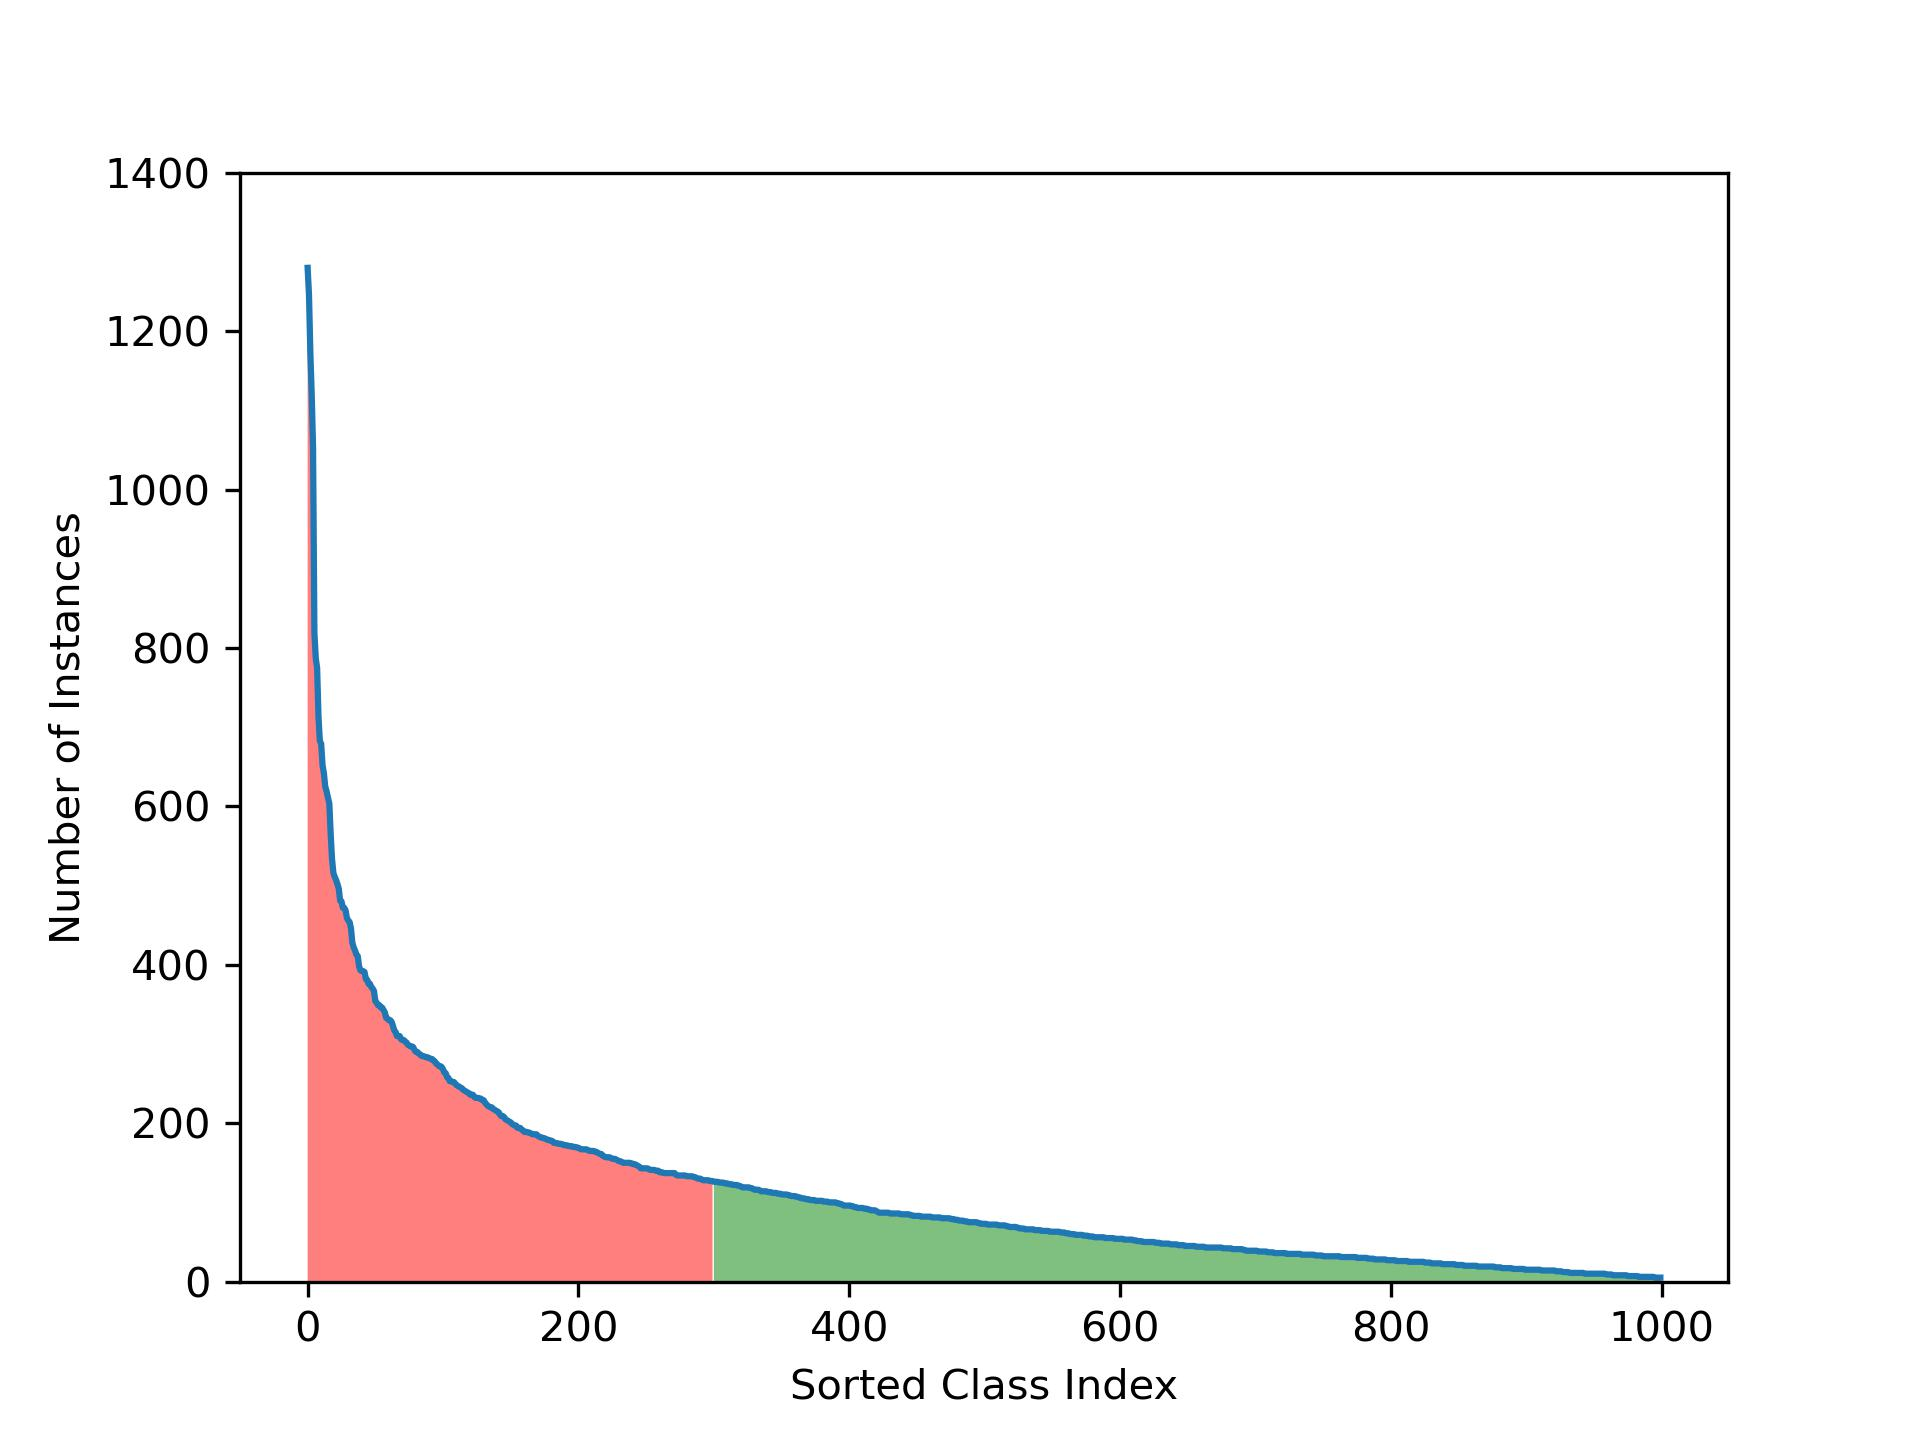
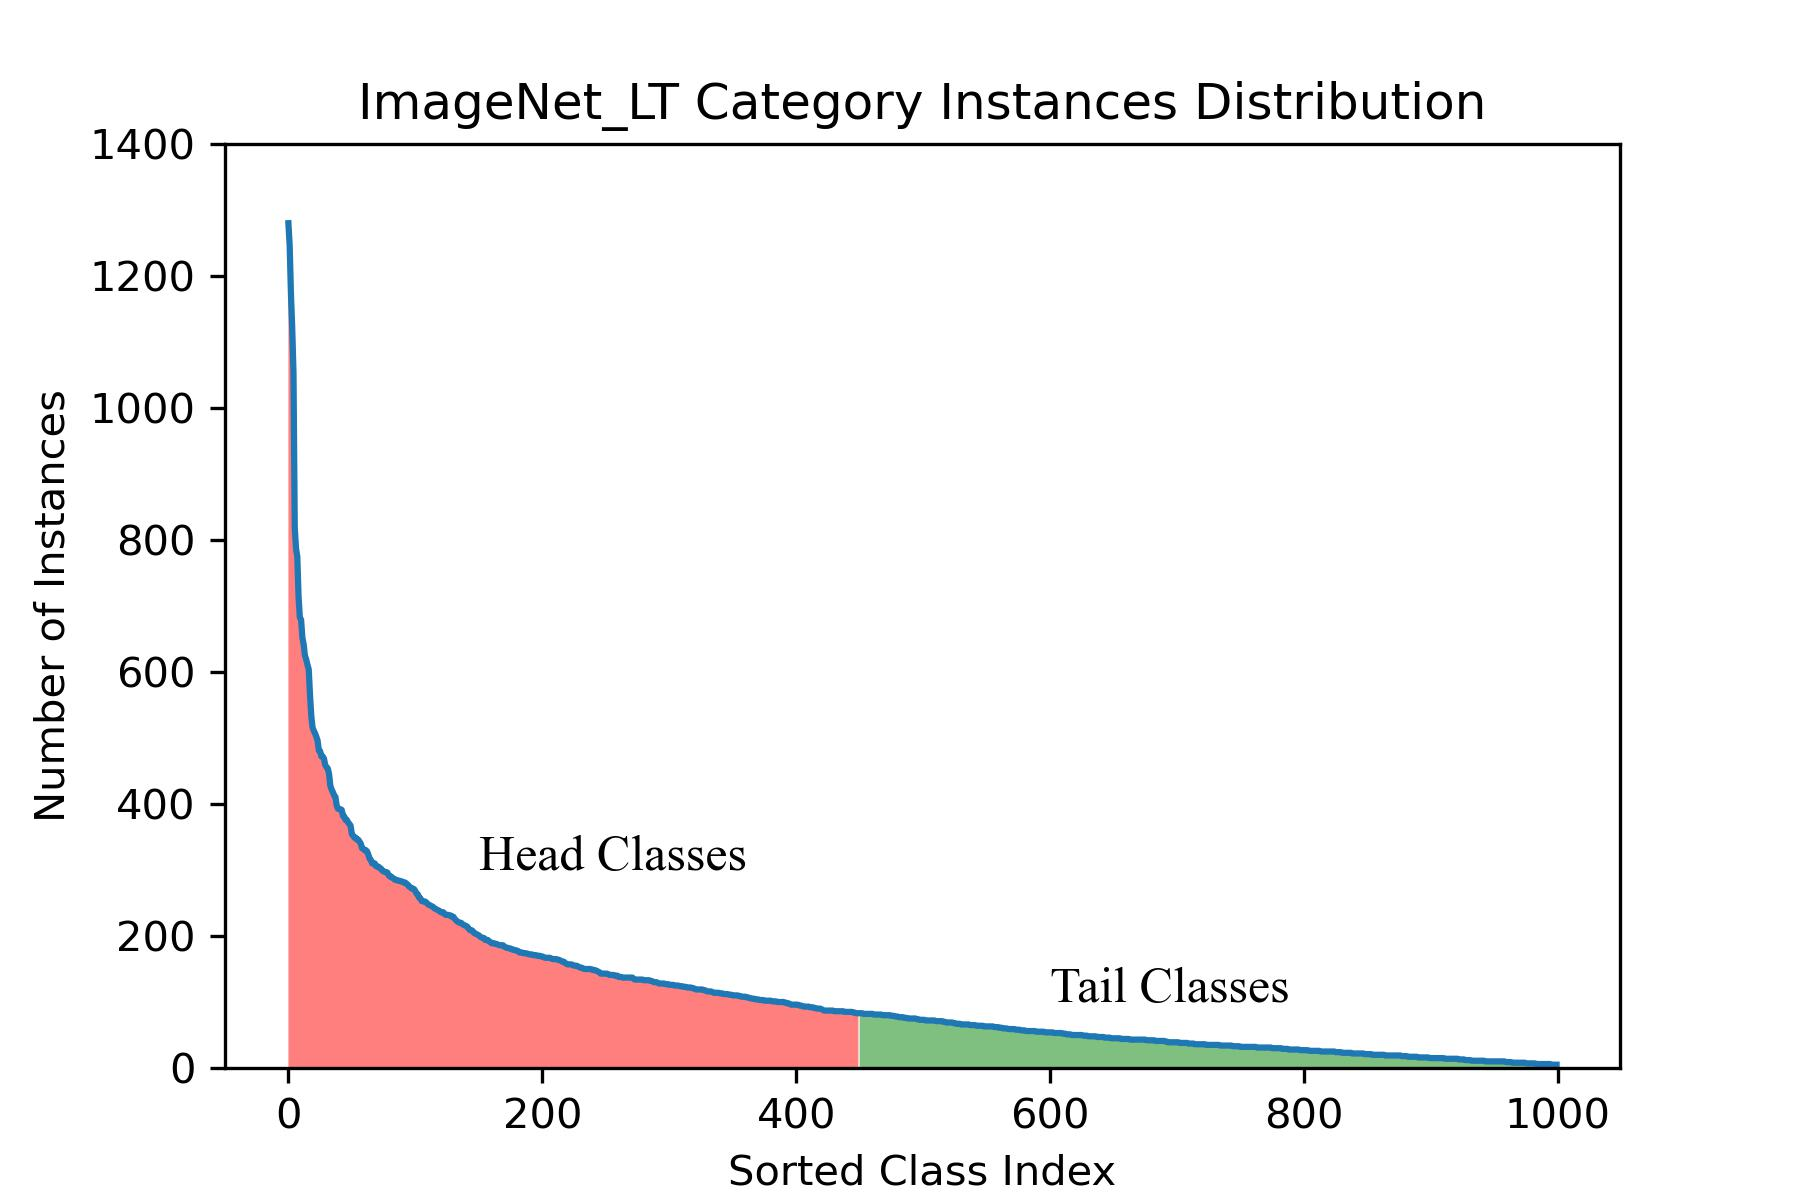
Visualized results

diff --git a/report/迟择恩-丛中笑-A Two-stage Solution for the Long-tail Distribution of Image Classification Datasets.tex b/report/迟择恩-丛中笑-A Two-stage Solution for the Long-tail Distribution of Image Classification Datasets.tex
@@ -25,7 +25,7 @@
 
 \usepackage[utf8]{inputenc} % allow utf-8 input
 \usepackage[T1]{fontenc}    % use 8-bit T1 fonts
-\usepackage[colorlinks,linkcolor=red]{hyperref}       % hyperlinks
+\usepackage[colorlinks]{hyperref}       % hyperlinks
 \usepackage{url}            % simple URL typesetting
 \usepackage{booktabs}       % professional-quality tables
 \usepackage{amsfonts}       % blackboard math symbols
@@ -37,6 +37,7 @@
 
 \urlstyle{rm}
 
+\bibliographystyle{abbrvnat}
 
 \title{A Two-stage Solution for the Long-tail Distribution of Image Classification Datasets}
 
@@ -64,8 +65,6 @@
   \texttt{congzhx@shanghaitech.edu.cn} \\
 }
 
-\newcommand*{\hyperlinkcite}[1]{\hyper@link{cite}{cite.#1}}
-
 
 \begin{document}
 
@@ -74,13 +73,13 @@
 
 
 \begin{abstract}
-    The long-tail distribution of image classification datasets has significantly challenged the existing deep learning based classification models. Most classical works have proposed various solutions, including re-sampling the training data, re-weighting the loss function, and transfer learning from head to tail classes. However, most of the methods are applied with jointly learning the image feature extractor and classifier. According to a groundbreaking study in recent years, a surprisingly effective idea is to decouple the learning process into feature representation and classification, and train two stages separately. Following the idea, in this paper, we apply different classical methods to the two stages respectively, and systematically conduct experiments on the long-tailed benchmark ImageNet-LT, showing that the disentangled method outperforms the existing sampling strategies and designed losses to some extent. Our code is available at \url{https://github.com/boynextdoor-cze/CS182-Project}.
+    The long-tail distribution of image classification datasets has significantly challenged the existing deep learning-based classification models. Most classical works have proposed various solutions, including re-sampling the training data, re-weighting the loss function, and transfer learning from head-to-tail classes. However, most of the methods are applied by jointly learning the image feature extractor and classifier. According to a groundbreaking study in recent years, a surprisingly effective idea is to decouple the learning process into feature representation and classification and train two stages separately. Following the idea, in this paper, we apply different classical methods to the two stages respectively, and systematically conduct experiments on the long-tailed benchmark ImageNet-LT, showing that the disentangled method outperforms the existing sampling strategies and designed losses to some extent. Our code is available at \url{https://github.com/boynextdoor-cze/CS182-Project}.
 \end{abstract}
 
 
 \section{Introduction}
 
-In the past 10 years, as a branch of machine learning and computer vision, image classification research has made significant advances, mainly driven by the appliance of deep convolutional neural networks (CNNs) like ResNet \cite{openlongtailrecognition}
+In the past 10 years, as a branch of machine learning and computer vision, image classification research has made significant advances, mainly driven by the appliance of deep convolutional neural networks (CNNs) like ResNet \cite{he2016residual}
 
 \subsection{Style}
 
@@ -436,33 +435,10 @@ Do {\bf not} include this section in the anonymized submission, only in the fina
 
 \section*{References}
 
-
-References follow the acknowledgments. Use unnumbered first-level heading for
-the references. Any choice of citation style is acceptable as long as you are
-consistent. It is permissible to reduce the font size to \verb+small+ (9 point)
-when listing the references.
-Note that the Reference section does not count towards the page limit.
-\medskip
-
-
 {
 \small
 
-
-\label{OLTR}[1] Alexander, J.A.\ \& Mozer, M.C.\ (1995) Template-based algorithms for
-connectionist rule extraction. In G.\ Tesauro, D.S.\ Touretzky and T.K.\ Leen
-(eds.), {\it Advances in Neural Information Processing Systems 7},
-pp.\ 609--616. Cambridge, MA: MIT Press.
-
-
-[2] Bower, J.M.\ \& Beeman, D.\ (1995) {\it The Book of GENESIS: Exploring
-  Realistic Neural Models with the GEneral NEural SImulation System.}  New York:
-TELOS/Springer--Verlag.
-
-
-[3] Hasselmo, M.E., Schnell, E.\ \& Barkai, E.\ (1995) Dynamics of learning and
-recall at excitatory recurrent synapses and cholinergic modulation in rat
-hippocampal region CA3. {\it Journal of Neuroscience} {\bf 15}(7):5249-5262.
+\bibliography{ref}
 }
 
 
@@ -567,7 +543,5 @@ Checklist section heading above along with the questions/answers below.
 
 Optionally include extra information (complete proofs, additional experiments and plots) in the appendix.
 This section will often be part of the supplemental material.
-
-\bibliography{ref}
 
 \end{document}

diff --git a/visualizer.py b/visualizer.py
@@ -13,21 +13,6 @@ def unpickle(file):
         dict = pickle.load(fo, encoding='bytes')
     return dict
 
-
-def CIFAR(dataset):
-    if dataset=='cifar-10':
-        data = unpickle(os.path.join(DATAPATH, dataset, 'data_batch_1'))
-        labels = data[b'labels']
-    elif dataset =='cifar-100':
-        data = unpickle(os.path.join(DATAPATH, dataset, 'train'))
-        labels = data[b'fine_labels']
-    label_set = set(labels)
-    label_count = {}
-    for label in label_set:
-        label_count[label] = labels.count(label)
-    plt.bar(label_count.keys(), label_count.values())
-    plt.show()
-
 def ImageNet():
     path=os.path.join(DATAPATH,'ImageNet_LT','ImageNet_LT_train.txt')
     num_per_cls=defaultdict(lambda: 0)
@@ -43,15 +28,105 @@ def ImageNet():
     cls_ids=range(len(num_per_cls.keys()))
     cls_nums=list(num_per_cls.values())
     
-    plt.figure()
+    plt.figure(figsize=(6,4))
     plt.plot(cls_ids,cls_nums)
     plt.ylim(0,1400)
-    plt.fill_between(x=cls_ids[:300],y1=0,y2=cls_nums[:300],facecolor='red', alpha=0.5)
-    plt.fill_between(x=cls_ids[300:],y1=0,y2=cls_nums[300:],facecolor='green', alpha=0.5)
+    plt.fill_between(x=cls_ids[:450],y1=0,y2=cls_nums[:450],facecolor='red', alpha=0.5)
+    plt.fill_between(x=cls_ids[450:],y1=0,y2=cls_nums[450:],facecolor='green', alpha=0.5)
     plt.xlabel('Sorted Class Index')
     plt.ylabel('Number of Instances')
+    plt.title('ImageNet_LT Category Instances Distribution')
+    plt.text(150, 300, 'Head Classes', fontsize=12, font='Times New Roman')
+    plt.text(600, 100, 'Tail Classes', fontsize=12, font='Times New Roman')
     plt.savefig('img/ImageNet_LT.jpg',dpi=300)
 
+def many():
+    labels = ['instance', 'class', 'square', 'progressive']
+    joint = [65.9, 61.8, 64.3, 61.9]
+    ncm = [56.6, 58.4, 59.0, 57.8]
+    crt = [61.8, 61.3, 62.6, 61.1]
+    tau = [59.1, 61.4, 62.8, 61.6]
+
+    x = np.arange(len(labels))
+    width = 0.2
+
+    plt.figure(figsize=(8,6))
+    plt.bar(x - 1.5*width, joint, width, label='Joint')
+    plt.bar(x - 0.5*width, ncm, width, label='NCM')
+    plt.bar(x + 0.5*width, crt, width, label='cRT')
+    plt.bar(x + 1.5*width, tau, width, label='Tau')
+    plt.ylabel('Accuracy %')
+    plt.title('Many-Shot')
+    plt.xticks(x, labels=labels)
+    plt.legend()
+    plt.show()
+
+def medium():
+    labels = ['instance', 'class', 'square', 'progressive']
+    joint = [37.5, 40.1, 41.2, 43.2]
+    ncm = [45.3, 40.1, 44.7, 43.0]
+    crt = [46.2, 39.3, 44.5, 43.1]
+    tau = [46.9, 40.2, 42.0, 43.3]
+
+    x = np.arange(len(labels))
+    width = 0.2
+
+    plt.figure(figsize=(8, 6))
+    plt.bar(x - 1.5*width, joint, width, label='Joint')
+    plt.bar(x - 0.5*width, ncm, width, label='NCM')
+    plt.bar(x + 0.5*width, crt, width, label='cRT')
+    plt.bar(x + 1.5*width, tau, width, label='Tau')
+    plt.ylabel('Accuracy %')
+    plt.title('Medium-Shot')
+    plt.xticks(x, labels=labels)
+    plt.legend()
+    plt.show()
+
+def few():
+    labels = ['instance', 'class', 'square', 'progressive']
+    joint = [7.7, 15.5, 17.0, 19.4]
+    ncm = [28.1, 18.0, 24.5, 21.6]
+    crt = [27.4, 15.2, 22.0, 19.0]
+    tau = [30.7, 15.3, 24.8, 19.2]
+
+    x = np.arange(len(labels))
+    width = 0.2
+
+    plt.figure(figsize=(8, 6))
+    plt.bar(x - 1.5*width, joint, width, label='Joint')
+    plt.bar(x - 0.5*width, ncm, width, label='NCM')
+    plt.bar(x + 0.5*width, crt, width, label='cRT')
+    plt.bar(x + 1.5*width, tau, width, label='Tau')
+    plt.ylabel('Accuracy %')
+    plt.title('Few-Shot')
+    plt.xticks(x, labels=labels)
+    plt.legend()
+    plt.show()
+
+def all():
+    labels = ['instance', 'class', 'square', 'progressive']
+    joint = [44.4, 45.1, 46.8, 47.2]
+    ncm = [47.3, 44.2, 47.5, 45.1]
+    crt = [49.6, 44.5, 47.9, 46.7]
+    tau = [49.4, 44.8, 47.6, 47.1]
+
+    x = np.arange(len(labels))
+    width = 0.2
+
+    plt.figure(figsize=(8, 6))
+    plt.bar(x - 1.5*width, joint, width, label='Joint')
+    plt.bar(x - 0.5*width, ncm, width, label='NCM')
+    plt.bar(x + 0.5*width, crt, width, label='cRT')
+    plt.bar(x + 1.5*width, tau, width, label='Tau')
+    plt.ylabel('Accuracy %')
+    plt.title('All')
+    plt.xticks(x, labels=labels)
+    plt.legend()
+    plt.show()
+
 if __name__ == '__main__':
-    #CIFAR('cifar-10')
-    ImageNet()
+    #ImageNet()
+    many()
+    medium()
+    few()
+    all()
